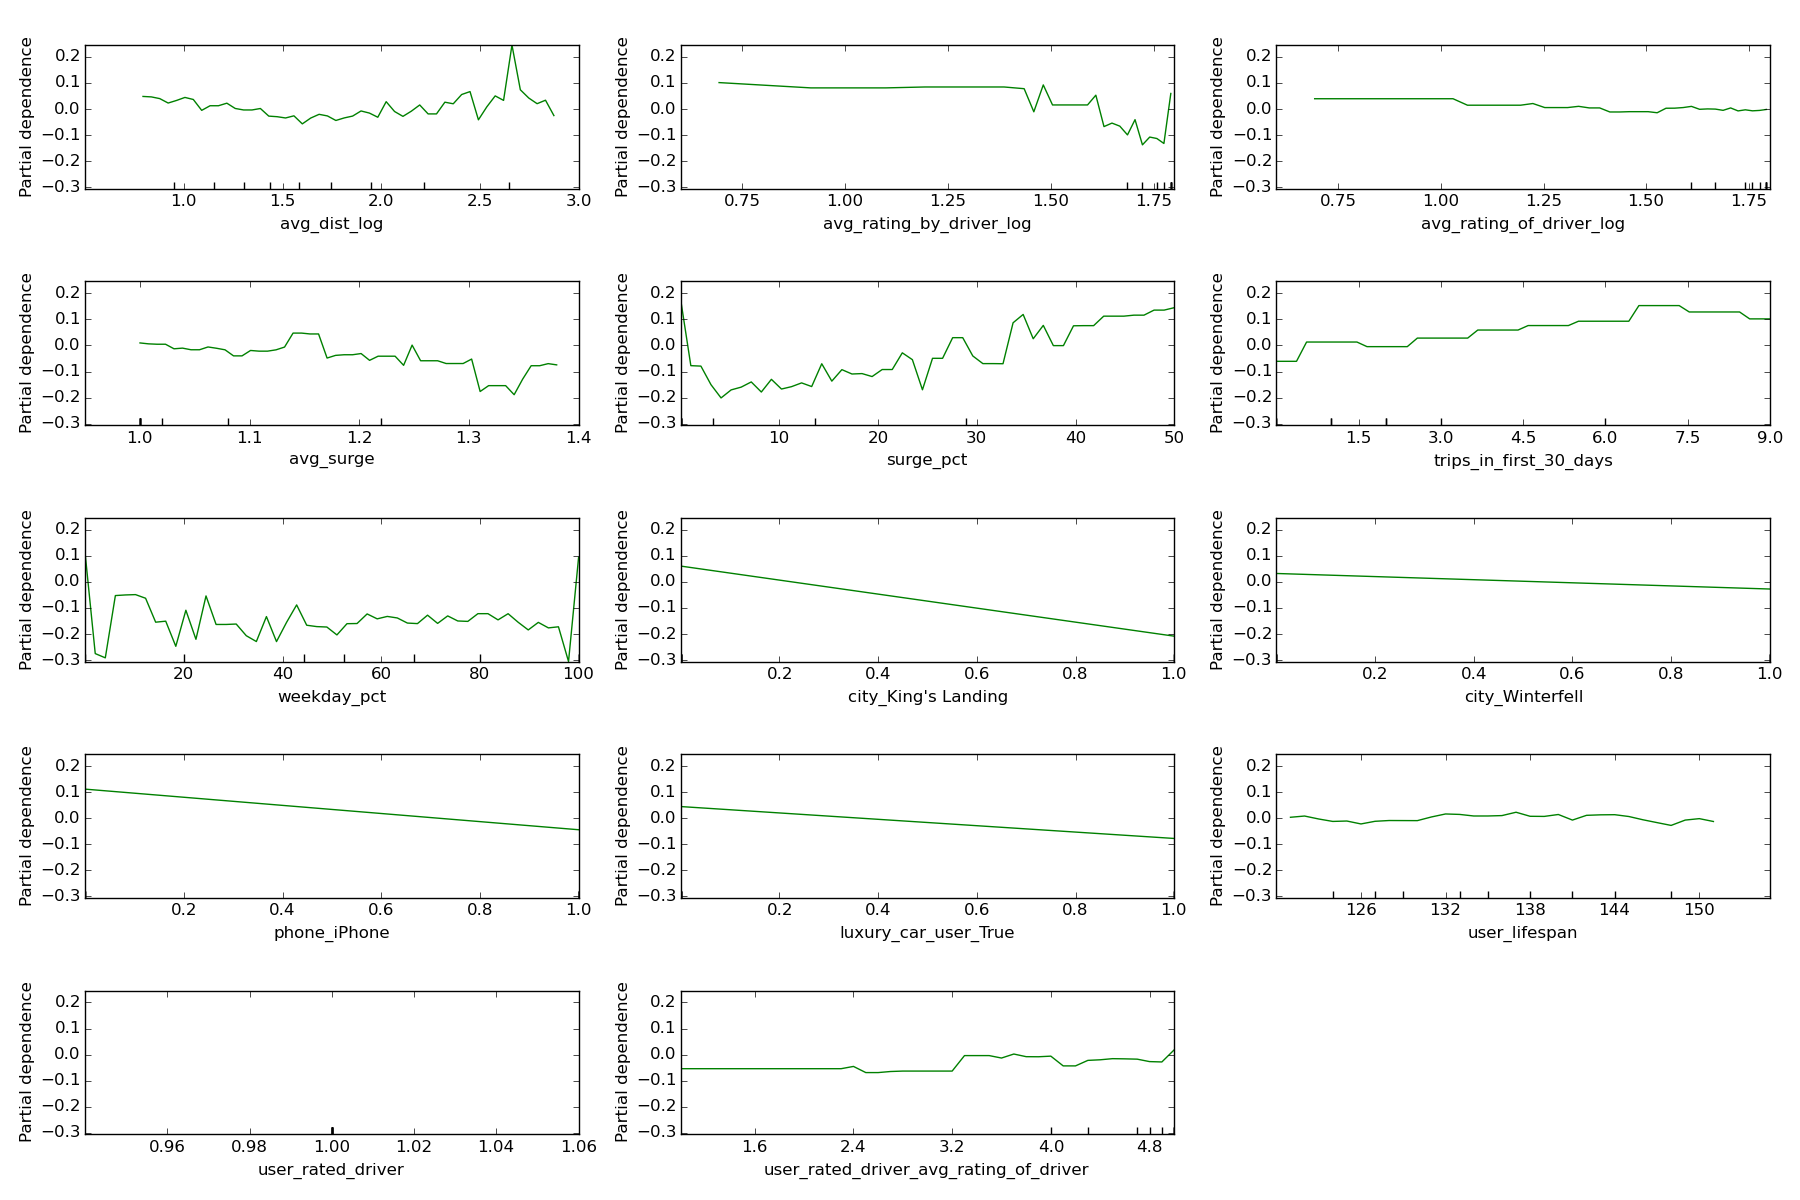
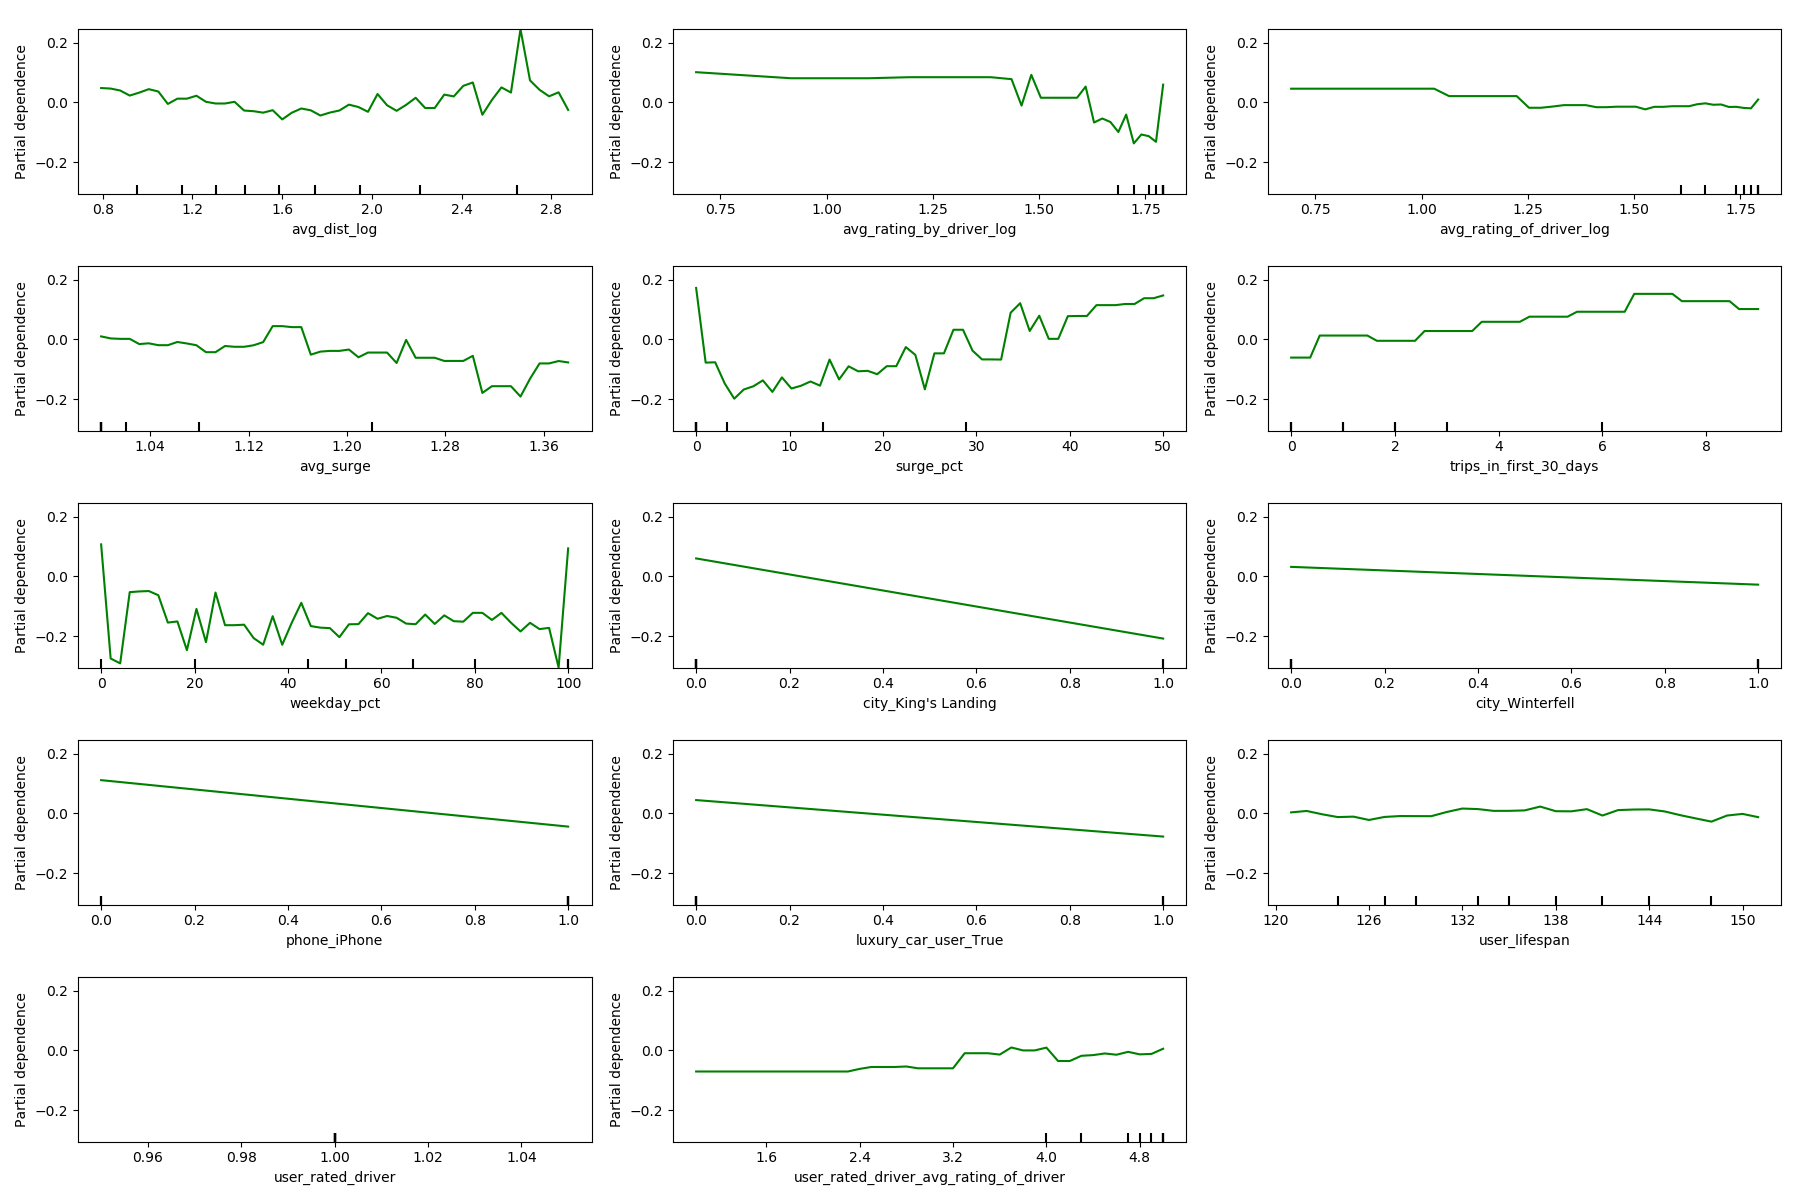
cleaned main.py codes and update profit curve and pdp pictures

diff --git a/main_clean.py b/main_clean.py
@@ -53,38 +53,12 @@ def adaBoost(Xtrain, ytrain,X_test):
     predictedAda = fit.predict_proba(X_test)[:,1]
     return predictedAda
 
-# def GradientBoost_predict(Xtrain, ytrain,X_test):
-#     # parameters = {'learning_rate':[0.5,1.0],
-#     #                 'n_estimators':  [200,300]
-#     #                 }
-#     # decisionTree = AdaBoostClassifier(DecisionTreeClassifier(max_depth=3))
-#     # gscv = GridSearchCV(decisionTree, parameters,scoring = 'roc_auc')
-#     gb = GradientBoostingClassifier(learning_rate=0.5,n_estimators=200)
-#     fit = gb.fit(Xtrain, ytrain)
-#     # print('Best paremters: {}'.format(fit.best_params_))
-#     predictedGradient = fit.predict(X_test)
-#     return predictedGradient
-
-
-# def profit_curve(yTrue,yHat):
-#     [[tn, fp], [fn, tp]] = confusion_matrix(yTrue, yHat[:,1])
-#     cost_benefit = np.array([[6, -3], [0, 0]])
-#     thresholds = [1.0, 0.6, 0.4, 0.2]
-#     confusion_matrices = [[tn, fp], [fn, tp]]
-#     total_observations = len(yTrue)
-
-#     for threshold, confusion_matrix in zip(thresholds, confusion_matrices):
-#         threshold_expected_profit = np.sum(cost_benefit * confusion_matrix) / total_observations
-#         print('Profit at threshold of {}: {}'.format(threshold, threshold_expected_profit))
-
 def standard_confusion_matrix(y_true, y_pred):
     [[tn, fp], [fn, tp]] = confusion_matrix(y_true, y_pred)
     return np.array([[tp, fp], [fn, tn]])
 
 def profit_curve(cost_benefit, predicted_probs, labels):
     n_obs = float(len(labels))
-    # maybe_one = [] if 1 in predicted_probs else [1]
-    # thresholds = maybe_one + sorted(predicted_probs, reverse=True)
     thresholds = np.arange(0,1,0.01)
     profits = []
     for threshold in thresholds:
@@ -92,21 +66,11 @@ def profit_curve(cost_benefit, predicted_probs, labels):
         confusion_matrix = standard_confusion_matrix(labels, y_predict)
         threshold_profit = np.sum(confusion_matrix * cost_benefit) / n_obs
         profits.append([threshold_profit,threshold])
-    # profits = ((np.array(profits), np.array(thresholds)))
     return profits
 
 
 
 def plot_model_profits(profits, save_path=None):
-    """Plotting function to compare profit curves of different models.
-    Parameters
-    ----------
-    model_profits : list((model, profits, thresholds))
-    save_path     : str, file path to save the plot to. If provided plot will be
-                         saved and not shown.
-    """
-    
-    # percentages = np.linspace(0, 100, len(profits))
     threshold = []
     profit = []
     for p in profits:
@@ -114,11 +78,9 @@ def plot_model_profits(profits, save_path=None):
         profit.append(p[0])
     plt.figure(figsize=(8,6))
     plt.plot(threshold, profit)
-
     plt.title("Profit Curve")
     plt.xlabel("TPR-FPR Threshold")
     plt.ylabel("Profit ($/user)")
-    # plt.legend(loc='best')
     if save_path:
         plt.savefig(save_path)
     else:
@@ -139,35 +101,33 @@ if __name__ == '__main__':
 
 
     print("$ Modeling")
-    # predictedLogistic = logisticModel(X, y, X_test)
-    # predictedRF = randomForestModel(X, y, X_test)
+    predictedLogistic = logisticModel(X, y, X_test)
+    predictedRF = randomForestModel(X, y, X_test)
     predictedGradient = GradientBoost(X,y, X_test)
-    # predictedAda = adaBoost(X, y, X_test)
-    # predictedGradient_label = GradientBoost_predict(X,y, X_test)
-
+    predictedAda = adaBoost(X, y, X_test)
 
     # Plot the ROC curves for different models
     print("$ ROC curves")
-    # fpr_l, tpr_l, thresholds_l = roc_curve(y_test, predictedLogistic)
-    # auc_score_l = auc(fpr_l, tpr_l)
-    # fpr_rf, tpr_rf, thresholds_rf = roc_curve(y_test, predictedRF)
-    # auc_score_rf = auc(fpr_rf, tpr_rf)
-    # fpr_a, tpr_a, thresholds_a = roc_curve(y_test, predictedAda)
-    # auc_score_a = auc(fpr_a, tpr_a)
-    # fpr_g, tpr_g, thresholds_g = roc_curve(y_test, predictedGradient)
-    # auc_score_g = auc(fpr_g, tpr_g)
+    fpr_l, tpr_l, thresholds_l = roc_curve(y_test, predictedLogistic)
+    auc_score_l = auc(fpr_l, tpr_l)
+    fpr_rf, tpr_rf, thresholds_rf = roc_curve(y_test, predictedRF)
+    auc_score_rf = auc(fpr_rf, tpr_rf)
+    fpr_a, tpr_a, thresholds_a = roc_curve(y_test, predictedAda)
+    auc_score_a = auc(fpr_a, tpr_a)
+    fpr_g, tpr_g, thresholds_g = roc_curve(y_test, predictedGradient)
+    auc_score_g = auc(fpr_g, tpr_g)
 
-    # plt.figure(1)
-    # plt.plot([0, 1], [0, 1], 'k--')
-    # plt.plot(fpr_l, tpr_l, label= ('Logistic, AUC: {0:.2f}'.format(auc_score_l)))
-    # plt.plot(fpr_rf, tpr_rf, label=('Random Forest, AUC: {0:.2f}'.format(auc_score_rf)))
-    # plt.plot(fpr_a, tpr_a, label=('AdaBoosting, AUC: {0:.2f}'.format(auc_score_a)))
-    # plt.plot(fpr_g, tpr_g, label=('GradientBoosting, AUC: {0:.2f}'.format(auc_score_g)))
-    # plt.xlabel('False positive rate')
-    # plt.ylabel('True positive rate')
-    # plt.title('ROC curve')
-    # plt.legend(loc='best')
-    # plt.show()
+    plt.figure(1)
+    plt.plot([0, 1], [0, 1], 'k--')
+    plt.plot(fpr_l, tpr_l, label= ('Logistic, AUC: {0:.2f}'.format(auc_score_l)))
+    plt.plot(fpr_rf, tpr_rf, label=('Random Forest, AUC: {0:.2f}'.format(auc_score_rf)))
+    plt.plot(fpr_a, tpr_a, label=('AdaBoosting, AUC: {0:.2f}'.format(auc_score_a)))
+    plt.plot(fpr_g, tpr_g, label=('GradientBoosting, AUC: {0:.2f}'.format(auc_score_g)))
+    plt.xlabel('False positive rate')
+    plt.ylabel('True positive rate')
+    plt.title('ROC curve')
+    plt.legend(loc='best')
+    plt.show()
 
     # Plot PDPs
     print("$ PDP Plots")
